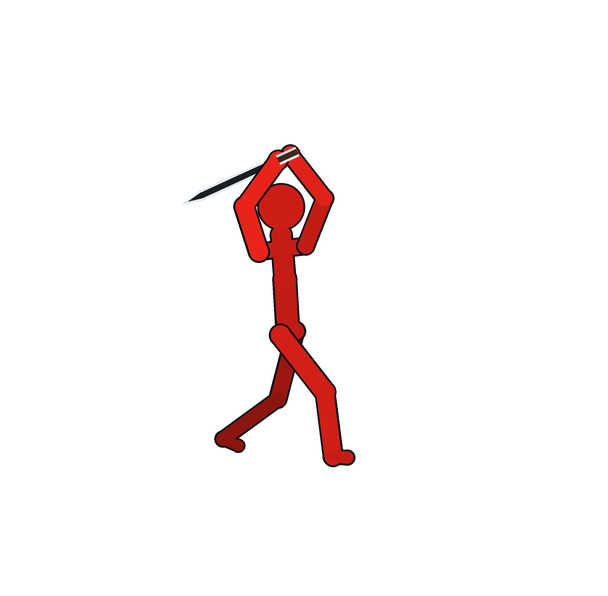
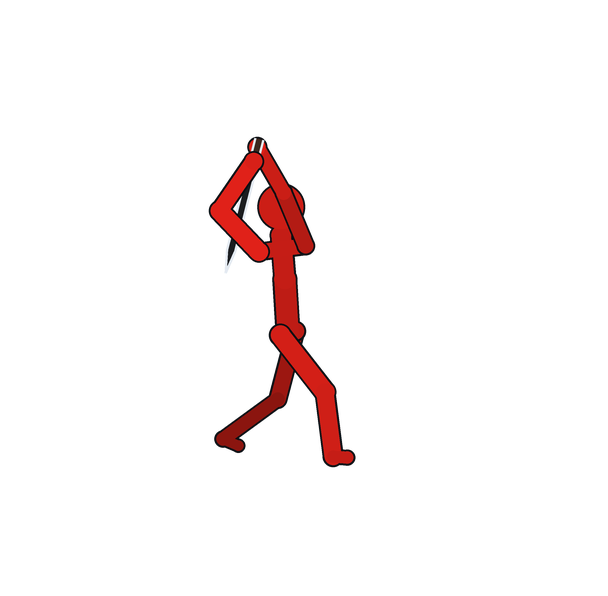
swordsman_rig attack_normal: windup blade hangs steeply behind the back like Ep 31
Adds a per-pose grip_max so one key can cock the wrists past the default
125 deg limit; the windup uses 150.  Fists go above and just behind the
head with the blade hanging almost straight down behind his back.
Frames 3-4 change too because their afterimages show the windup.

Claude-Session: https://claude.ai/code/session_018Q922chY7kjeesCVv2cZgV

Changed region(s): [[0.3125, 0.2114, 0.5625, 0.453]]

diff --git a/tools/fx/swordsman_rig_poses.py b/tools/fx/swordsman_rig_poses.py
@@ -167,8 +167,9 @@ def faults(j, k):
         if angle(up, fo) > ELBOW_MAX:
             out.append("%s elbow bends %.0f > %.0f" % (name, angle(up, fo), ELBOW_MAX))
         a = angle(fo, g)
-        if not GRIP_MIN <= a <= GRIP_MAX:
-            out.append("%s grip: blade %.0f deg off the forearm (allowed %.0f..%.0f)" % (name, a, GRIP_MIN, GRIP_MAX))
+        gmax = k.get("grip_max", GRIP_MAX)      # a pose may cock the wrists further
+        if not GRIP_MIN <= a <= gmax:
+            out.append("%s grip: blade %.0f deg off the forearm (allowed %.0f..%.0f)" % (name, a, GRIP_MIN, gmax))
         mid = mul(add(j["sh" + s], j["ha" + s]), 0.5)
         if j["el" + s][1] > max(j["sh" + s][1], j["ha" + s][1]) + 2 and j["el" + s][1] > mid[1] + 6 \
                 and j["ha" + s][1] < j["sh" + s][1]:
@@ -340,10 +341,12 @@ K = {
         grip=(34, 64, 6), blade=(0.50, 0.86, -0.05),
         front=dict(toe=(44, 0, 8), lift=0), back=dict(toe=(-50, 0, -8), lift=30, yaw=-15)),
     # WINDUP - Ep 31, Ichigo vs Renji: stood up tall, both arms straight up,
-    # fists above the head, blade hanging back behind him.
+    # fists above and just behind the head, blade hanging almost straight down
+    # behind his back.  The wrists cock further than the default grip limit
+    # allows, as in the shot.
     "windup": dict(
         pelvis=(-10, 74, 0), hip_yaw=14, twist=20, lean=-4, curl=-4, head=8,
-        grip=(-14, 178, 6), blade=(-0.90, -0.45, -0.10),
+        grip=(-30, 176, 4), blade=(-0.25, -0.96, 0.00), grip_max=150,
         front=dict(toe=(30, 0, 8), lift=0), back=dict(toe=(-44, 0, -8), lift=25, yaw=-15)),
     # DASH - Ep 121, Ichigo vs Grimmjow: thrown forward through the air, front
     # knee driven up, back leg trailing, sword low at the hip, blade trailing
